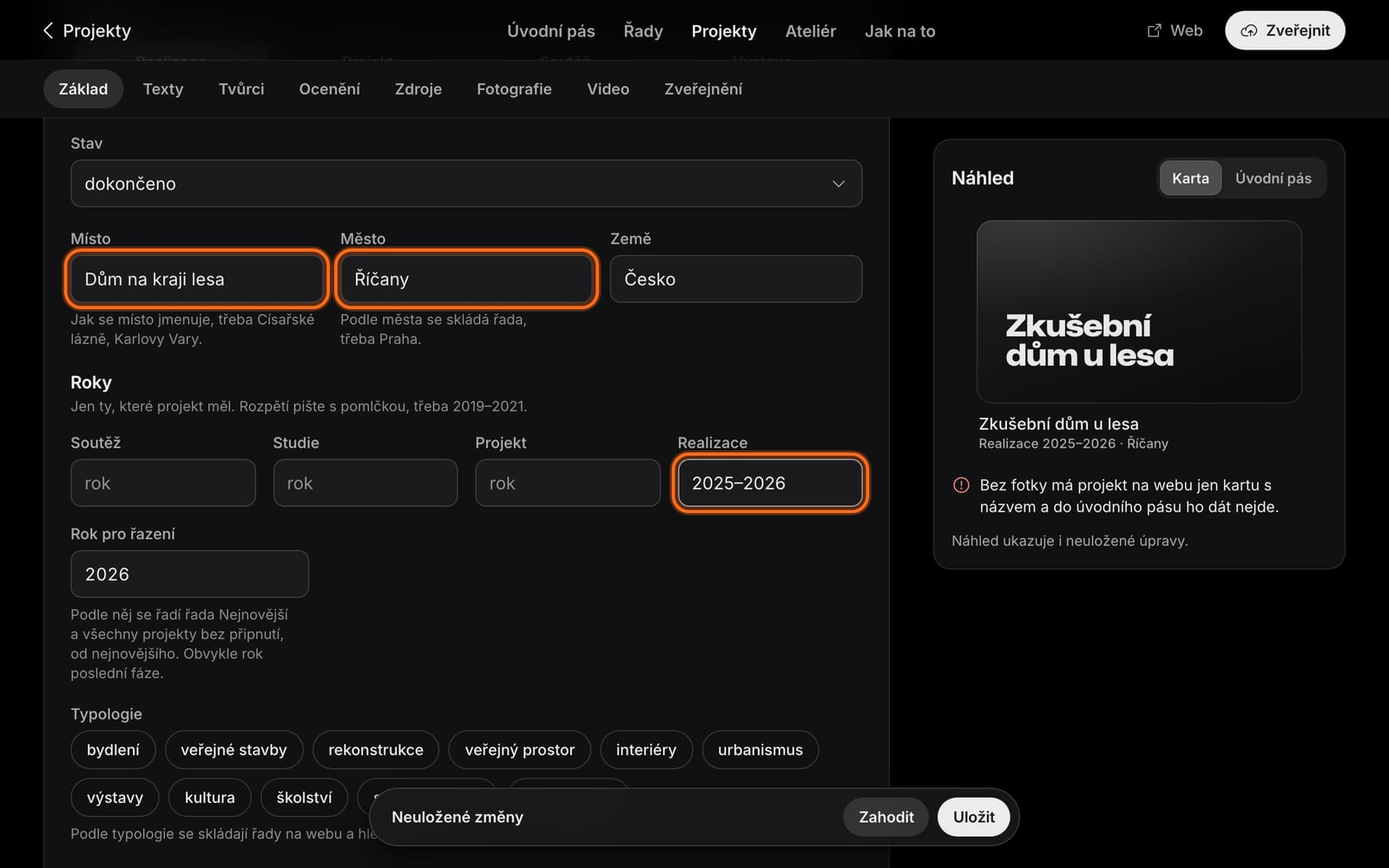
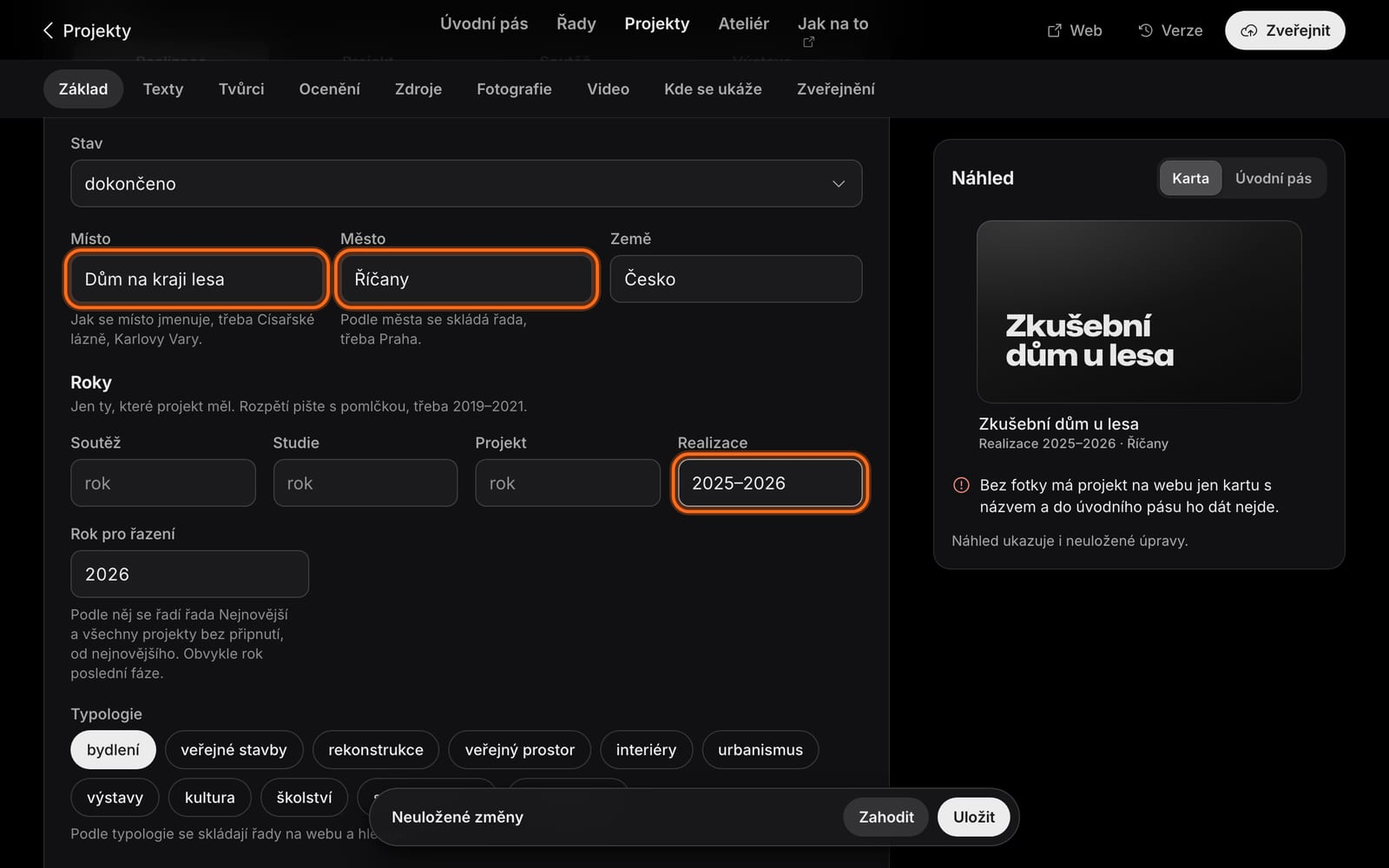
Návod ke správě webu, 26. 11. 2026 12:06

diff --git a/index.html b/index.html
@@ -101,7 +101,7 @@ dd { margin: 4px 0 0; color: var(--text-2); max-width: 66ch; }
   <section class="pravidla" aria-label="Co stačí vědět">
     <div class="pravidlo"><h3>Uložit</h3><p>Uloží vaši práci ve správě. Na webu ji zatím nikdo nevidí, takže můžete v&nbsp;klidu zkoušet.</p></div>
     <div class="pravidlo"><h3>Zveřejnit</h3><p>Až budete spokojený, klikněte vpravo nahoře na Zveřejnit. Asi za minutu jsou změny na webu.</p></div>
-    <div class="pravidlo"><h3>Nic se nerozbije</h3><p>Každou uloženou změnu vrátí tlačítko Vrátit poslední změnu. Smazaný projekt obnovíte z&nbsp;koše.</p></div>
+    <div class="pravidlo"><h3>Nic se nerozbije</h3><p>Každou uloženou změnu vrátí tlačítko Vrátit poslední změnu. Smazaný projekt obnovíte z&nbsp;koše a&nbsp;celý web vrátíte o&nbsp;verzi zpátky (Verze vpravo nahoře).</p></div>
   </section>
 
   <p class="pozn"><span class="kruh" aria-hidden="true"></span><span>Oranžový rámeček na obrázcích ukazuje, kam kliknout nebo co vyplnit. Obrázek zvětšíte kliknutím.</span></p>
@@ -114,11 +114,13 @@ dd { margin: 4px 0 0; color: var(--text-2); max-width: 66ch; }
       <li><a href="#texty">Napište texty</a></li>
       <li><a href="#fotky">Nahrajte fotky</a></li>
       <li><a href="#video">Přidejte video</a></li>
-      <li><a href="#ulozit">Zapněte projekt a&nbsp;uložte</a></li>
+      <li><a href="#ulozit">Zapněte projekt a uložte</a></li>
+      <li><a href="#kde-se-ukaze">Vyberte, kde se projekt ukáže</a></li>
       <li><a href="#uvodni-pas">Vyberte projekty na úvodní stránku</a></li>
       <li><a href="#rady">Seřaďte řady na hlavní stránce</a></li>
       <li><a href="#atelier">Upravte stránku Ateliér</a></li>
       <li><a href="#zverejnit">Zveřejněte změny</a></li>
+      <li><a href="#verze">Vraťte se k dřívější verzi</a></li>
       <li><a href="#oprava">Opravte projekt, který už na webu je</a></li>
       <li><a href="#telefon">V&nbsp;mobilu</a></li>
       <li><a href="#kdyz">Když se něco nepovede</a></li>
@@ -129,16 +131,16 @@ dd { margin: 4px 0 0; color: var(--text-2); max-width: 66ch; }
     <li id="prihlaseni">
       <h2 class="krok-hlava">Přihlaste se</h2>
       <ul class="body">
-        <li>V&nbsp;prohlížeči otevřete adresu <a class="adresa" href="https://89-221-215-53.sslip.io/sprava/">https://89-221-215-53.sslip.io/sprava/</a>. Funguje na počítači i&nbsp;v mobilu, odkudkoli.</li>
+        <li>V&nbsp;prohlížeči otevřete adresu <a class="adresa" href="https://89-221-215-53.sslip.io/sprava/">https://89-221-215-53.sslip.io/sprava/</a>. Funguje i&nbsp;v&nbsp;mobilu.</li>
         <li>Napište heslo a&nbsp;klikněte na <span class="tl">Přihlásit se</span>. Uživatelské jméno se nezadává, stačí heslo. Heslo vám pošleme zvlášť.</li>
         <li>Prohlížeč si přihlášení může zapamatovat (jako jméno uloží „admin“). Přihlášení vydrží 30 dní od poslední návštěvy.</li>
-        <li>Dokud web neotevřeme pro všechny, chrání stejné heslo i&nbsp;samotný web na <a class="adresa" href="https://89-221-215-53.sslip.io/">https://89-221-215-53.sslip.io/</a>. Po přihlášení ho uvidíte přesně tak, jak ho uvidí návštěvníci.</li>
-        <li>Nahoře najdete části <b>Úvodní pás</b>, <b>Řady</b>, <b>Projekty</b>, <b>Ateliér</b> a <b>Jak na to</b> (krátká nápověda přímo ve správě). Vpravo nahoře je tlačítko <span class="tl">Zveřejnit</span>, nebo nápis <b>Web je aktuální</b>, když na webu nic nečeká.</li>
-        <li>Na cizím počítači se po práci odhlaste: tlačítko <span class="tl">Odhlásit se</span> je dole v&nbsp;části Jak na to.</li>
+        <li>Dokud web neotevřeme pro všechny, chrání stejné heslo i&nbsp;samotný web na <a class="adresa" href="https://89-221-215-53.sslip.io/">https://89-221-215-53.sslip.io/</a>.</li>
+        <li>Vpravo nahoře je tlačítko <span class="tl">Verze</span> (krok 12) a&nbsp;<span class="tl">Zveřejnit</span>, nebo nápis <b>Web je aktuální</b>, když na webu nic nečeká. <b>Jak na to</b> otevře tenhle návod.</li>
+        <li>Na cizím počítači se po práci odhlaste: tlačítko <span class="tl">Odhlásit se</span> je úplně dole na stránce Úvodní pás.</li>
       </ul>
       <div class="dvojice">
-        <figure><a href="img/00-prihlaseni.jpg"><img src="img/00-prihlaseni.jpg" alt="Přihlašovací stránka: pole Heslo a tlačítko Přihlásit se, obojí v oranžovém rámečku" width="1600" height="1000" loading="lazy"></a><figcaption>Stačí heslo a&nbsp;Přihlásit se.</figcaption></figure>
-        <figure><a href="img/01-uvitani.jpg"><img src="img/01-uvitani.jpg" alt="Správa webu po přihlášení: nahoře části správy a vpravo nápis Web je aktuální" width="1600" height="1000" loading="lazy"></a><figcaption>Po přihlášení: nahoře části správy, vpravo stav webu.</figcaption></figure>
+        <figure><a href="img/00-prihlaseni.jpg"><img src="img/00-prihlaseni.jpg" alt="Přihlašovací stránka: pole Heslo a tlačítko Přihlásit se, obojí v oranžovém rámečku" width="1600" height="1000" loading="lazy"></a></figure>
+        <figure><a href="img/01-uvitani.jpg"><img src="img/01-uvitani.jpg" alt="Správa webu po přihlášení: nahoře části správy a vpravo nápis Web je aktuální" width="1600" height="1000" loading="lazy"></a></figure>
       </div>
     </li>
 
@@ -146,39 +148,40 @@ dd { margin: 4px 0 0; color: var(--text-2); max-width: 66ch; }
       <h2 class="krok-hlava">Založte nový projekt</h2>
       <ul class="body">
         <li>Klikněte nahoře na <b>Projekty</b> a&nbsp;pak vpravo na <span class="tl">+ Nový projekt</span>.</li>
-        <li>Napište název projektu, vyberte kategorii (Realizace, Projekt, Soutěž nebo Výstava) a&nbsp;klikněte na <span class="tl">Založit projekt</span>.</li>
-        <li>Nový projekt je zatím skrytý. Na webu se objeví, až ho zapnete a&nbsp;zveřejníte (kroky 6 a&nbsp;10).</li>
+        <li>Napište název, vyberte kategorii a klikněte na <span class="tl">Založit projekt</span>.</li>
+        <li>Rovnou můžete vybrat, <b>kde se ukáže</b>: v&nbsp;úvodním pásu a&nbsp;v&nbsp;řadách, do kterých projekty dáváte sami (třeba Krkonoše) nebo podle typologie (třeba Domy a&nbsp;byty). Projekt se tam ukáže, až bude mít fotku a&nbsp;zveřejníte ho.</li>
+        <li>Nový projekt je zatím skrytý. Na webu se objeví, až ho zapnete a&nbsp;zveřejníte (kroky 6 a&nbsp;11).</li>
       </ul>
       <div class="dvojice">
-        <figure><a href="img/03-projekty.jpg"><img src="img/03-projekty.jpg" alt="Seznam projektů, vpravo nahoře tlačítko Nový projekt" width="1600" height="1000" loading="lazy"></a><figcaption>Seznam všech projektů s&nbsp;hledáním a&nbsp;filtry.</figcaption></figure>
-        <figure><a href="img/04-novy-projekt.jpg"><img src="img/04-novy-projekt.jpg" alt="Okno Nový projekt: název, kategorie a tlačítko Založit projekt" width="992" height="832" loading="lazy"></a><figcaption>Název a&nbsp;kategorie, ostatní doplníte potom.</figcaption></figure>
+        <figure><a href="img/03-projekty.jpg"><img src="img/03-projekty.jpg" alt="Seznam projektů, vpravo nahoře tlačítko Nový projekt" width="1600" height="1000" loading="lazy"></a></figure>
+        <figure><a href="img/04-novy-projekt.jpg"><img src="img/04-novy-projekt.jpg" alt="Okno Nový projekt: název, kategorie a tlačítko Založit projekt" width="1232" height="1488" loading="lazy"></a></figure>
       </div>
     </li>
 
     <li id="texty">
       <h2 class="krok-hlava">Napište texty</h2>
       <ul class="body">
-        <li>V&nbsp;části <b>Základ</b> vyplňte místo, město a&nbsp;roky. Stačí ty roky, které projekt měl, třeba jen rok realizace. Pod každým polem je krátká nápověda.</li>
-        <li>V&nbsp;části <b>Texty</b> napište <b>perex</b>: jednu větu, která se ukáže pod názvem projektu. Vejde se do ní 110 znaků, počítadlo vidíte vpravo nad polem.</li>
-        <li>Delší <b>popis</b> píšete po odstavcích. Další odstavec přidáte tlačítkem <span class="tl">+ Přidat odstavec</span>.</li>
-        <li>Tvůrce, ocenění a&nbsp;zdroje doplnit můžete, ale nemusíte. Vpravo celou dobu vidíte náhled, jak bude projekt vypadat na webu.</li>
+        <li>V&nbsp;části <b>Základ</b> vyplňte místo, město a&nbsp;roky. Stačí ty roky, které projekt měl, třeba jen rok realizace.</li>
+        <li>V&nbsp;části <b>Texty</b> napište <b>perex</b>: jednu větu, která se ukáže pod názvem projektu. Vejde se do ní 110 znaků.</li>
+        <li>Delší <b>popis</b> píšete po odstavcích (<span class="tl">+ Přidat odstavec</span>).</li>
+        <li>Tvůrci, ocenění a zdroje jsou nepovinné.</li>
       </ul>
       <div class="dvojice">
-        <figure><a href="img/06-zaklad.jpg"><img src="img/06-zaklad.jpg" alt="Část Základ: vyplněné místo, město a rok realizace" width="1600" height="1000" loading="lazy"></a><figcaption>Základ: místo, město a&nbsp;roky.</figcaption></figure>
-        <figure><a href="img/07-texty.jpg"><img src="img/07-texty.jpg" alt="Část Texty: perex s počítadlem znaků, první odstavec popisu a tlačítko Přidat odstavec" width="1600" height="1000" loading="lazy"></a><figcaption>Perex hlídá délku, popis má odstavce.</figcaption></figure>
+        <figure><a href="img/06-zaklad.jpg"><img src="img/06-zaklad.jpg" alt="Část Základ: vyplněné místo, město a rok realizace" width="1600" height="1000" loading="lazy"></a></figure>
+        <figure><a href="img/07-texty.jpg"><img src="img/07-texty.jpg" alt="Část Texty: perex s počítadlem znaků, první odstavec popisu a tlačítko Přidat odstavec" width="1600" height="1000" loading="lazy"></a></figure>
       </div>
     </li>
 
     <li id="fotky">
       <h2 class="krok-hlava">Nahrajte fotky</h2>
       <ul class="body">
-        <li>V&nbsp;části <b>Fotografie</b> klikněte na <span class="tl">Nahrát fotky</span> a&nbsp;vyberte je z&nbsp;počítače nebo z&nbsp;telefonu. Klidně víc najednou (JPG, PNG, WebP i&nbsp;HEIC z&nbsp;iPhonu, každá do 40 MB).</li>
+        <li>V části <b>Fotografie</b> klikněte na <span class="tl">Nahrát fotky</span>, klidně víc najednou (JPG, PNG, WebP i&nbsp;HEIC z&nbsp;iPhonu, každá do 40 MB).</li>
         <li>První fotka bude hlavní: ukáže se nahoře v&nbsp;projektu i&nbsp;na jeho kartě. Pořadí změníte přetažením.</li>
-        <li>Když na fotku kliknete, napíšete k&nbsp;ní popis a&nbsp;jméno fotografa a&nbsp;vyberete, kde se má ukázat (Titulní, Karta, Plakát). Pak klikněte na <span class="tl">Hotovo</span>.</li>
+        <li>Když na fotku kliknete, napíšete k&nbsp;ní popis a&nbsp;jméno fotografa a&nbsp;vyberete, kde se má ukázat (Titulní, Karta, Plakát).</li>
         <li>Fotky se ukládají samy, hned jak se nahrají.</li>
       </ul>
-      <figure><a href="img/08-fotky.jpg"><img src="img/08-fotky.jpg" alt="Část Fotografie se třemi nahranými fotkami a tlačítkem Nahrát fotky" width="1600" height="1000" loading="lazy"></a><figcaption>Tři nahrané fotky. První je titulní a&nbsp;zároveň na kartě.</figcaption></figure>
-      <figure class="stred"><a href="img/09-fotka-detail.jpg"><img src="img/09-fotka-detail.jpg" alt="Okno jedné fotky: kde se ukáže, popis fotky a fotograf" width="1600" height="1220" loading="lazy"></a><figcaption>Po kliknutí na fotku: kde se ukáže, popis a&nbsp;fotograf.</figcaption></figure>
+      <figure><a href="img/08-fotky.jpg"><img src="img/08-fotky.jpg" alt="Část Fotografie se třemi nahranými fotkami a tlačítkem Nahrát fotky" width="1600" height="1000" loading="lazy"></a></figure>
+      <figure class="stred"><a href="img/09-fotka-detail.jpg"><img src="img/09-fotka-detail.jpg" alt="Okno jedné fotky: kde se ukáže, popis fotky a fotograf" width="1600" height="1220" loading="lazy"></a></figure>
     </li>
 
     <li id="video">
@@ -188,8 +191,8 @@ dd { margin: 4px 0 0; color: var(--text-2); max-width: 66ch; }
         <li>Delší <b>film z&nbsp;YouTube nebo Vimea</b> přidáte tlačítkem <span class="tl">+ Přidat odkaz na video</span>: vložte odkaz, název a&nbsp;kdo ho natočil. Na webu se pustí až po kliknutí.</li>
       </ul>
       <div class="dvojice">
-        <figure><a href="img/11-video-ukazka.jpg"><img src="img/11-video-ukazka.jpg" alt="Nahraná video ukázka a pole Autor ukázky" width="1600" height="1000" loading="lazy"></a><figcaption>Převedená ukázka a&nbsp;vedle ní, kdo ji natočil.</figcaption></figure>
-        <figure><a href="img/12-video-odkaz.jpg"><img src="img/12-video-odkaz.jpg" alt="Odkaz na film na YouTube s názvem a autorem" width="1600" height="1000" loading="lazy"></a><figcaption>Odkaz na film: odkaz, název a&nbsp;kdo ho natočil.</figcaption></figure>
+        <figure><a href="img/11-video-ukazka.jpg"><img src="img/11-video-ukazka.jpg" alt="Nahraná video ukázka a pole Autor ukázky" width="1600" height="1000" loading="lazy"></a></figure>
+        <figure><a href="img/12-video-odkaz.jpg"><img src="img/12-video-odkaz.jpg" alt="Odkaz na film na YouTube s názvem a autorem" width="1600" height="1000" loading="lazy"></a></figure>
       </div>
     </li>
 
@@ -198,48 +201,58 @@ dd { margin: 4px 0 0; color: var(--text-2); max-width: 66ch; }
       <ul class="body">
         <li>Dole v&nbsp;části <b>Zveřejnění</b> zapněte přepínač <b>Zveřejněno na webu</b>.</li>
         <li>Pak klikněte na <span class="tl">Uložit</span> v&nbsp;liště dole. Objeví se zpráva „Uloženo. Na webu to bude po zveřejnění.“</li>
-        <li>Najdete tu i <b>Připnout nahoru</b> (projekt bude v&nbsp;seznamech první), <b>Otevřít na webu</b> a <b>Smazat projekt</b>. Tlačítko <b>Vrátit poslední změnu</b> vrátí, co jste naposledy uložili.</li>
+        <li><b>Připnout nahoru</b> dá projekt v seznamech na první místo. Tlačítko <b>Vrátit poslední změnu</b> vrátí, co jste naposledy uložili.</li>
       </ul>
-      <figure><a href="img/10-ulozeno.jpg"><img src="img/10-ulozeno.jpg" alt="Zapnutý přepínač Zveřejněno na webu, tlačítko Vrátit poslední změnu a zpráva Uloženo" width="1600" height="1000" loading="lazy"></a><figcaption>Zapnuto a&nbsp;uloženo. Na webu se to ukáže po zveřejnění (krok 10).</figcaption></figure>
+      <figure><a href="img/10-ulozeno.jpg"><img src="img/10-ulozeno.jpg" alt="Zapnutý přepínač Zveřejněno na webu, tlačítko Vrátit poslední změnu a zpráva Uloženo" width="1600" height="1000" loading="lazy"></a></figure>
+    </li>
+
+    <li id="kde-se-ukaze">
+      <h2 class="krok-hlava">Vyberte, kde se projekt ukáže</h2>
+      <ul class="body">
+        <li>V&nbsp;úpravě projektu je část <b>Kde se ukáže</b>: všechna místa na hlavní stránce pohromadě.</li>
+        <li><b>Úvodní pás:</b> přepínačem projekt přidáte nebo odeberete. <span class="tl">Dát na první místo</span> ho postaví na začátek, uvidí ho každý návštěvník jako první.</li>
+        <li><b>Řady:</b> u&nbsp;řad podle kategorie a&nbsp;typologie stačí přepínač (kategorie je vždy jedna). Řady, které vybíráte sami, třeba Krkonoše, zapnete také přepínačem. U&nbsp;ostatních řad uvidíte, jestli tam projekt je, a&nbsp;proč.</li>
+              </ul>
+      <figure><a href="img/19-kde-se-ukaze.jpg"><img src="img/19-kde-se-ukaze.jpg" alt="Část Kde se ukáže: úvodní pás, první místo a řada Domy a byty" width="1600" height="1000" loading="lazy"></a></figure>
     </li>
 
     <li id="uvodni-pas">
       <h2 class="krok-hlava">Vyberte projekty na úvodní stránku</h2>
       <ul class="body">
         <li><b>Úvodní pás</b> je velká fotka úplně nahoře na hlavní stránce. Projekty se v&nbsp;něm po pár vteřinách střídají a&nbsp;ten první uvidí každý návštěvník jako první.</li>
-        <li>Klikněte nahoře na <b>Úvodní pás</b> a&nbsp;pak na <span class="tl">+ Přidat projekt</span>. Napište kousek názvu a&nbsp;projekt vyberte. Přidá se na konec.</li>
-        <li>Šipkami nahoru a&nbsp;dolů ho posunete, kam chcete. Na počítači můžete kartu i&nbsp;přetáhnout.</li>
+        <li>Projekt přidáte tlačítkem <span class="tl">+ Přidat projekt</span>, přidá se na konec.</li>
+        <li>Pořadí změníte šipkami nebo přetažením.</li>
         <li><span class="tl">Vzhled</span> vybere, která fotka se ukáže, a&nbsp;zapne nebo vypne video ukázku. <b>Odebrat</b> projekt z&nbsp;pásu vyndá, na webu ale zůstane.</li>
-        <li>Vpravo vidíte náhled hlavní stránky a&nbsp;pod ním <b>Střídání</b>: jak dlouho zůstane každý projekt. Všechno v&nbsp;této části se ukládá samo.</li>
+        <li>Totéž jde i&nbsp;z&nbsp;projektu, v&nbsp;části Kde se ukáže (krok 7).</li>
+        <li><b>Střídání</b> nastaví, jak dlouho zůstane každý projekt. Tady se všechno ukládá samo, bez Uložit.</li>
       </ul>
-      <figure><a href="img/14-pas-prvni.jpg"><img src="img/14-pas-prvni.jpg" alt="Úvodní pás: nový projekt na prvním místě a vpravo náhled hlavní stránky" width="1600" height="1000" loading="lazy"></a><figcaption>Nový projekt je první a&nbsp;náhled vpravo ukazuje, jak začne hlavní stránka.</figcaption></figure>
+      <figure><a href="img/14-pas-prvni.jpg"><img src="img/14-pas-prvni.jpg" alt="Úvodní pás: nový projekt na prvním místě a vpravo náhled hlavní stránky" width="1600" height="1000" loading="lazy"></a></figure>
       <div class="dvojice">
-        <figure><a href="img/13-pas-pridat.jpg"><img src="img/13-pas-pridat.jpg" alt="Okno Přidat do úvodního pásu s hledáním a nalezeným projektem" width="1232" height="558" loading="lazy"></a><figcaption>Přidání projektu do pásu.</figcaption></figure>
-        <figure><a href="img/15-pas-vzhled.jpg"><img src="img/15-pas-vzhled.jpg" alt="Okno Vzhled v úvodním pásu: přepínač video ukázky a výběr fotky" width="1600" height="807" loading="lazy"></a><figcaption>Vzhled: video ukázka a&nbsp;fotka.</figcaption></figure>
+        <figure><a href="img/13-pas-pridat.jpg"><img src="img/13-pas-pridat.jpg" alt="Okno Přidat do úvodního pásu s hledáním a nalezeným projektem" width="1232" height="558" loading="lazy"></a></figure>
+        <figure><a href="img/15-pas-vzhled.jpg"><img src="img/15-pas-vzhled.jpg" alt="Okno Vzhled v úvodním pásu: přepínač video ukázky a výběr fotky" width="1600" height="807" loading="lazy"></a></figure>
       </div>
     </li>
 
     <li id="rady">
       <h2 class="krok-hlava">Seřaďte řady na hlavní stránce</h2>
       <ul class="body">
-        <li>Pod úvodním pásem jsou řady karet, třeba Nejnovější nebo Realizace. Najdete je nahoře v&nbsp;části <b>Řady</b>.</li>
+        <li>Řady karet pod úvodním pásem upravíte v&nbsp;části <b>Řady</b>.</li>
         <li>Šipkami změníte pořadí řad, přepínačem řadu schováte. Když řadu rozkliknete, přejmenujete ji nebo změníte tvar karet.</li>
         <li>Tlačítkem <span class="tl">Přidat vlastní řadu</span> založíte řadu, do které projekty vyberete sami, třeba „Krkonoše“.</li>
         <li>Projekty se v&nbsp;řadách řadí podle roku, od nejnovějšího. Připnutý projekt jde první všude kromě řady Nejnovější.</li>
       </ul>
-      <figure><a href="img/29-radky.jpg"><img src="img/29-radky.jpg" alt="Řady na hlavní stránce s přepínači a šipkami" width="1600" height="1000" loading="lazy"></a><figcaption>Řady v&nbsp;pořadí shora dolů, jak jsou na hlavní stránce.</figcaption></figure>
+      <figure><a href="img/29-radky.jpg"><img src="img/29-radky.jpg" alt="Řady na hlavní stránce s přepínači a šipkami" width="1600" height="1000" loading="lazy"></a></figure>
     </li>
 
     <li id="atelier">
       <h2 class="krok-hlava">Upravte stránku Ateliér</h2>
       <ul class="body">
-        <li>V&nbsp;části <b>Ateliér</b> změníte úvodní text, životopis, výuku, tým, spolupracovníky, ocenění, výstavy, přednášky, poroty, fotografy i&nbsp;údaje v&nbsp;patičce webu.</li>
+        <li>V&nbsp;části <b>Ateliér</b> změníte celou stránku Ateliér i&nbsp;údaje v&nbsp;patičce webu.</li>
         <li>Nový řádek přidáte tlačítkem <span class="tl">+ Přidat…</span> (třeba + Přidat výstavu), křížkem ho odeberete a&nbsp;šipkami posunete.</li>
-        <li>Nakonec klikněte na <span class="tl">Uložit</span>.</li>
-      </ul>
+              </ul>
       <div class="dvojice">
-        <figure><a href="img/27-atelier.jpg"><img src="img/27-atelier.jpg" alt="Ateliér ve správě: úvodní text stránky" width="1600" height="1000" loading="lazy"></a><figcaption>Úvodní text stránky Ateliér.</figcaption></figure>
-        <figure><a href="img/28-atelier-vystava.jpg"><img src="img/28-atelier-vystava.jpg" alt="Nová výstava: název, místo a tlačítko Přidat výstavu" width="1600" height="1000" loading="lazy"></a><figcaption>Nová výstava: rok, název a&nbsp;místo.</figcaption></figure>
+        <figure><a href="img/27-atelier.jpg"><img src="img/27-atelier.jpg" alt="Ateliér ve správě: úvodní text stránky" width="1600" height="1000" loading="lazy"></a></figure>
+        <figure><a href="img/28-atelier-vystava.jpg"><img src="img/28-atelier-vystava.jpg" alt="Nová výstava: název, místo a tlačítko Přidat výstavu" width="1600" height="1000" loading="lazy"></a></figure>
       </div>
     </li>
 
@@ -248,23 +261,30 @@ dd { margin: 4px 0 0; color: var(--text-2); max-width: 66ch; }
       <ul class="body">
         <li>Až budete se změnami spokojený, klikněte vpravo nahoře na <span class="tl">Zveřejnit</span>.</li>
         <li>Asi za minutu se ukáže „Hotovo, web je aktuální“. Mezitím můžete klidně pracovat dál.</li>
-        <li>Tlačítko <b>Otevřít web</b> ukáže výsledek: hlavní stránka začíná projektem, který jste dali v&nbsp;pásu na první místo.</li>
+        <li>Uložené změny zůstávají ve správě, i&nbsp;když ji zavřete nebo vypnete počítač. Zveřejnit je můžete kdykoli později; do té doby je na webu nikdo nevidí.</li>
+
+    <li id="verze">
+      <h2 class="krok-hlava">Vraťte se k dřívější verzi</h2>
+      <ul class="body">
+        <li>Každé zveřejnění se uloží jako verze. Vpravo nahoře klikněte na <span class="tl">Verze</span>.</li>
+        <li>Uvidíte posledních 5 zveřejnění. U&nbsp;kteréhokoli klikněte na <span class="tl">Vrátit tuto verzi</span>: správa i&nbsp;web se vrátí do stavu z&nbsp;té chvíle a&nbsp;web se sám znovu zveřejní, trvá to asi minutu.</li>
+        <li>Když máte uložené změny, které ještě nejsou na webu, objeví se <span class="tl">Zahodit nezveřejněné změny</span>: správa se vrátí přesně do stavu, který je teď na webu.</li>
+        <li>Nic se neztratí: co jste vrácením zahodili, najdete ve Verzích jako <b>Stav před posledním vrácením</b> a&nbsp;jde to vrátit zpátky.</li>
       </ul>
       <div class="dvojice">
-        <figure><a href="img/16-zverejnit.jpg"><img src="img/16-zverejnit.jpg" alt="Tlačítko Zveřejnit vpravo nahoře" width="1600" height="1000" loading="lazy"></a><figcaption>Zveřejnit vpravo nahoře.</figcaption></figure>
-        <figure><a href="img/17-zverejneno.jpg"><img src="img/17-zverejneno.jpg" alt="Zpráva Hotovo, web je aktuální s tlačítkem Otevřít web" width="1600" height="1000" loading="lazy"></a><figcaption>Hotovo: změny teď vidí každý, kdo web otevře.</figcaption></figure>
+        <figure><a href="img/32-verze.jpg"><img src="img/32-verze.jpg" alt="Okno Verze webu: verze, která je teď na webu, a dřívější verze s tlačítkem Vrátit tuto verzi" width="1600" height="1000" loading="lazy"></a></figure>
+        <figure><a href="img/33-verze-zmeny.jpg"><img src="img/33-verze-zmeny.jpg" alt="Okno Verze webu s nabídkou Zahodit nezveřejněné změny" width="1600" height="1000" loading="lazy"></a></figure>
       </div>
-      <figure><a href="img/18-web-domu.jpg"><img src="img/18-web-domu.jpg" alt="Hlavní stránka webu začíná novým projektem" width="1600" height="1000" loading="lazy"></a><figcaption>Výsledek na webu.</figcaption></figure>
     </li>
 
     <li id="oprava">
       <h2 class="krok-hlava">Opravte projekt, který už na webu je</h2>
       <ul class="body">
         <li>V <b>Projektech</b> najdete projekt hledáním (podle názvu, města, roku nebo autora) a&nbsp;otevřete ho.</li>
-        <li>Změňte, co potřebujete. Dole se objeví lišta <b>Neuložené změny</b>: <span class="tl">Uložit</span> změny uloží, <span class="tl">Zahodit</span> je zahodí.</li>
-        <li>Když od rozdělané úpravy odejdete, správa se zeptá, jestli ji chcete uložit. Pak už jen zveřejnit (krok 10).</li>
+        <li><span class="tl">Zahodit</span> v&nbsp;liště dole vrátí, co jste ještě neuložili.</li>
+        <li>Když od rozdělané úpravy odejdete, správa se zeptá, jestli ji chcete uložit.</li>
       </ul>
-      <figure><a href="img/21-uprava-textu.jpg"><img src="img/21-uprava-textu.jpg" alt="Upravený perex a lišta Neuložené změny s tlačítky Zahodit a Uložit" width="1600" height="1000" loading="lazy"></a><figcaption>Rozdělanou úpravu hlídá lišta dole.</figcaption></figure>
+      <figure><a href="img/21-uprava-textu.jpg"><img src="img/21-uprava-textu.jpg" alt="Upravený perex a lišta Neuložené změny s tlačítky Zahodit a Uložit" width="1600" height="1000" loading="lazy"></a></figure>
     </li>
 
     <li id="telefon">
@@ -273,7 +293,7 @@ dd { margin: 4px 0 0; color: var(--text-2); max-width: 66ch; }
         <li>V&nbsp;mobilu funguje všechno stejně, jen části najdete ve spodní liště. Fotky nahrajete rovnou z&nbsp;galerie telefonu.</li>
         <li>Pořadí v&nbsp;úvodním pásu změníte šipkami, nebo kartu podržíte prstem a&nbsp;přetáhnete.</li>
       </ul>
-      <figure><a href="img/30-telefon.jpg"><img src="img/30-telefon.jpg" alt="Správa webu v mobilu: úvodní pás, projekty a úprava projektu" width="1414" height="996" loading="lazy"></a><figcaption>Úvodní pás, Projekty a&nbsp;úprava projektu v&nbsp;mobilu.</figcaption></figure>
+      <figure><a href="img/30-telefon.jpg"><img src="img/30-telefon.jpg" alt="Správa webu v mobilu: úvodní pás, projekty a úprava projektu" width="1414" height="996" loading="lazy"></a></figure>
     </li>
   </ol>
 
@@ -282,13 +302,16 @@ dd { margin: 4px 0 0; color: var(--text-2); max-width: 66ch; }
     <dl>
       <div><dt>Nejde uložit a&nbsp;lišta píše „Opravte 1 věc“</dt><dd>U&nbsp;pole je červeně napsané, co chybí, třeba kdo video natočil, nebo že je perex moc dlouhý. Klikněte na Ukázat, opravte to a&nbsp;uložte znovu.</dd></div>
       <div><dt>Uložil jsem něco omylem</dt><dd>Klikněte na Vrátit poslední změnu (dole v&nbsp;projektu nebo v&nbsp;Ateliéru). Vrátí se předchozí verze. Na webu se oprava ukáže po zveřejnění.</dd></div>
+      <div><dt>Zavřel jsem správu a&nbsp;úpravu jsem neuložil</dt><dd>Prohlížeč si ji pamatuje. Až projekt nebo Ateliér otevřete znovu ve stejném prohlížeči, nahoře se objeví Vrátit úpravu.</dd></div>
+      <div><dt>Chci web zpátky, jak byl předtím</dt><dd>Vpravo nahoře klikněte na Verze, vyberte zveřejnění a&nbsp;Vrátit tuto verzi (krok 12).</dd></div>
       <div><dt>Smazal jsem projekt</dt><dd>Najdete ho úplně dole v&nbsp;Projektech, mezi smazanými projekty. Klikněte na Obnovit a&nbsp;vrátí se i&nbsp;s fotkami.</dd></div>
       <div><dt>Změny na webu nevidím</dt><dd>Zkontrolujte, že je projekt zapnutý (Zveřejněno na webu) a&nbsp;že jste klikli na Zveřejnit. Do úvodního pásu potřebuje projekt aspoň jednu fotku.</dd></div>
       <div><dt>Někdo upravoval totéž na jiném zařízení</dt><dd>Správa se zeptá, jestli načíst novější verzi, nebo uložit tu vaši. Ta druhá zůstane v&nbsp;historii.</dd></div>
       <div><dt>Heslo nesedí</dt><dd>Po deseti špatných pokusech přihlášení čtvrt hodiny počká. Kdybyste heslo zapomněl, napište nám a&nbsp;pošleme ho znovu.</dd></div>
     </dl>
-    <figure class="stred"><a href="img/31-kos.jpg"><img src="img/31-kos.jpg" alt="Smazané projekty dole v Projektech s tlačítkem Obnovit" width="1600" height="1000" loading="lazy"></a><figcaption>Smazané projekty a&nbsp;tlačítko Obnovit.</figcaption></figure>
-    <p class="paticka">Stejné rady najdete stručně i&nbsp;přímo ve správě, v&nbsp;části Jak na to.</p>
+    <figure class="stred"><a href="img/35-rozpracovane.jpg"><img src="img/35-rozpracovane.jpg" alt="Nabídka Vrátit úpravu: neuložená úprava, kterou si prohlížeč pamatoval" width="1600" height="1000" loading="lazy"></a></figure>
+    <figure class="stred"><a href="img/31-kos.jpg"><img src="img/31-kos.jpg" alt="Smazané projekty dole v Projektech s tlačítkem Obnovit" width="1600" height="1000" loading="lazy"></a></figure>
+    <p class="paticka">Tenhle návod otevřete kdykoli i ze správy: nahoře Jak na to.</p>
   </section>
 </div>
 </body>
